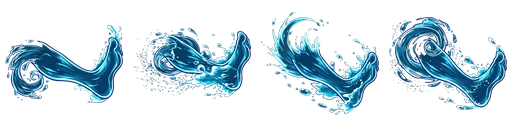
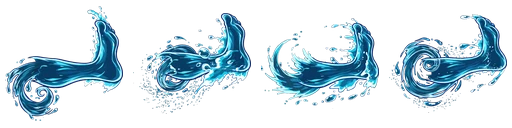
dune: otter K level, water drops round the body when attacking

diff --git a/dune.html b/dune.html
@@ -171,7 +171,7 @@ const DRAGON_COMBO = [ /* hit feel: stop = freeze on contact (s), shake, big = f
 const COMBO = OTTER ? OTTER_COMBO : DRAGON_COMBO;
 
 /* ---------- assets ---------- */
-const BUILD = 19;   /* raise when sprites.json / world.json change, so a browser never mixes a new page with an old list */
+const BUILD = 20;   /* raise when sprites.json / world.json change, so a browser never mixes a new page with an old list */
 const SP = {}, ENV = {}, IMG = {}; let WORLD = {};
 const load = src => new Promise(ok => { const i = new Image(); i.onload = () => Promise.race([i.decode ? i.decode().catch(() => { }) : Promise.resolve(), new Promise(r => setTimeout(r, 2500))]).then(() => ok(i));   /* a browser may never finish decode() in a background window: the game must still start */ i.onerror = () => { console.warn('missing', src); ok(null); }; i.src = src; });
 async function loadAll() {
@@ -300,7 +300,7 @@ function stepOtter(dt) {
   const S = P.cast, m = SP[S.anim], a = atk() * S.mul, mx = (I.right ? 1 : 0) - (I.left ? 1 : 0), D = P.dir;
   if (S.id === 'o_step') { /* owner: dash straight through the whole line in the push-kick pose, a foot of water in front (kick frames of the spin sheet) */
     if (P.ph === 0) { P.t += dt * 34; P.f = clamp(2 + P.t, 2, 5); P.vx = D * 120; if (P.t >= 3) { P.ph = 1; P.t = 0; P.u = new Set(); G.shake = 4; sfx('boom'); drip(P.x, P.y - 4, 8, 180); } return; }
-    if (P.ph === 1) { const t0 = P.t; P.t += dt; const u = clamp(P.t / .26, 0, 1); P.inv = Math.max(P.inv, .14); lunge(60 + 1810 * Math.sin(Math.PI * u)); P.f = P.t < .05 ? 5 + P.t / .05 * 2 : 7 + (P.t * 18 % 2 < 1 ? 0 : 1); if (Math.floor(t0 / .035) !== Math.floor(P.t / .035)) G.ghosts.push({ a: P.a, f: P.f, x: P.x, y: P.y, dir: D, t: 0, T: .2 });
+    if (P.ph === 1) { const t0 = P.t; P.t += dt; const u = clamp(P.t / .26, 0, 1); P.inv = Math.max(P.inv, .14); lunge(60 + 1810 * Math.sin(Math.PI * u)); P.f = P.t < .05 ? 5 + P.t / .05 * 2 : 11; if (Math.floor(t0 / .035) !== Math.floor(P.t / .035)) G.ghosts.push({ a: P.a, f: P.f, x: P.x, y: P.y, dir: D, t: 0, T: .2 });
       for (const q of G.mobs) { const e = (q.x - P.x) * D; if (q.st === 'dead' || P.u.has(q) || Math.abs(q.y - P.y) > 56 || e < -10 || e > q.T.r + 70) continue; P.u.add(q); MH.o_step.forEach((w, i) => G.after.push({ d: i * .05, f: () => { if (q.st === 'dead') return; const last = i === 2; hurtMob(q, a * w, last ? 90 : 14, D, last ? { stop: .028, shake: 4, big: 1, tip: 1 } : TIPSOFT); connect(S, 1); drip(q.x + D * (q.T.r + 8), q.y - q.T.h * .5, last ? 12 : 6, 240); } })); }
       if (u >= 1) { P.ph = 2; P.t = 12; P.vx = D * 130; drip(P.x + D * 40, P.y - 26, 10, 220); } return; }
     P.t += dt * 26; P.f = Math.min(m.n - 1, P.t); if (P.t >= 13) P.free = true; if (P.t >= m.n - 1) setAnim('idle'); return; }
@@ -319,10 +319,11 @@ function stepFists(dt) { for (let i = G.wf.length - 1; i >= 0; i--) { const q = 
 function drawFists() { for (const q of G.wf) { const m = SP[q.k || 'otter_wfist']; if (!m || !m.img || q.wait > 0) continue; const p = q.t / q.T, e = out3(p / .7), k = .62 + .38 * Math.min(1, p / .25); ctx.save(); ctx.globalAlpha = p < .1 ? p / .1 : 1 - sm((p - .74) / .26); ctx.translate(WX(q.x + q.d * q.L * e), WY(q.y)); ctx.scale(q.d * k, k); ctx.drawImage(m.img, q.i * m.w, 0, m.w, m.h, -q.z * .86, -q.z / 2, q.z, q.z); ctx.restore(); } }
 function waterSwirl(x, y, z, al) { const m = SP.fx_w_spin; if (!m || !m.img) return; const i = 3 + Math.floor(G.t * 22) % 3; ctx.save(); ctx.globalAlpha = al; ctx.translate(WX(x), WY(y)); ctx.rotate(G.t * 15 * P.dir); ctx.drawImage(m.img, (i % m.cols) * m.w, Math.floor(i / m.cols) * m.h, m.w, m.h, -z / 2, -z / 2, z, z); ctx.restore(); }
 function fistAt(C) { const i = Math.min(15, Math.floor(P.f)), u = P.f - i, A = C.fist[i], B = C.fist[Math.min(15, i + 1)]; return { x: P.x + P.dir * lerp(A[0], B[0], u), y: P.y - lerp(A[1], B[1], u) }; }
-function drip(x, y, n, sp) { for (let i = 0; i < n && G.wd.length < 70; i++) { const a = rand(0, 6.283), v = rand(sp * .35, sp); G.wd.push({ x, y, vx: Math.cos(a) * v + P.dir * sp * .25, vy: Math.sin(a) * v - 50, t: rand(.2, .42), r: rand(1, 2.5) }); } }
-function stepDrips(dt) { for (let i = G.wd.length - 1; i >= 0; i--) { const d = G.wd[i]; d.t -= dt; if (d.t <= 0) { G.wd.splice(i, 1); continue; } d.vy += 760 * dt; d.x += d.vx * dt; d.y += d.vy * dt; } }
-function drawDrips() { if (!G.wd.length) return; ctx.save(); for (const [c, g] of [['#163f8f', .8], ['#68d8ff', 0]]) { ctx.fillStyle = c; ctx.beginPath(); for (const d of G.wd) { const r = d.r * clamp(d.t / .14, .35, 1) + g, x = WX(d.x), y = WY(d.y); ctx.moveTo(x + r, y); ctx.arc(x, y, r, 0, 6.283); } ctx.fill(); } ctx.fillStyle = '#f2fdff'; ctx.beginPath(); for (const d of G.wd) if (d.r > 1.6) { const x = WX(d.x) - d.r * .3, y = WY(d.y) - d.r * .3; ctx.moveTo(x + .7, y); ctx.arc(x, y, .7, 0, 6.283); } ctx.fill(); ctx.restore(); }
-function drawFistWater() { if (P.st === 'skill' && P.cast && P.cast.id === 'o_step') { const k = SP.otter_wkick; if (P.ph !== 1 || !k || !k.img) return; const z = 66 + Math.sin(G.t * 34) * 3, i = Math.floor(G.t * 16) % 4; ctx.save(); ctx.globalAlpha = .96; ctx.translate(WX(P.x + P.dir * (16 + z * .86)), WY(P.y - 27)); ctx.scale(P.dir, 1); ctx.drawImage(k.img, i * k.w, 0, k.w, k.h, -z * .86, -z / 2, z, z); ctx.restore(); return; } if (P.st !== 'atk') return; const C = COMBO[P.combo], m = SP.fx_w_spin; if (!m || !m.img) return; const f = P.f, a = clamp((f - (C.hit - 2)) / 1.4, 0, 1) * (1 - clamp((f - (C.hit + 2.4)) / 2, 0, 1)); if (a <= 0) return; const q = fistAt(C), pop = 1 - clamp(Math.abs(f - C.hit) / 3, 0, 1), z = (C.big ? 30 : 22) * (.68 + pop * .5), i = 3 + Math.floor(G.t * 22) % 3; ctx.save(); ctx.globalAlpha = a * .92; ctx.translate(WX(q.x + P.dir * 2), WY(q.y)); ctx.rotate(G.t * 15 * P.dir); ctx.drawImage(m.img, (i % m.cols) * m.w, Math.floor(i / m.cols) * m.h, m.w, m.h, -z / 2, -z / 2, z, z); ctx.restore(); }
+function drip(x, y, n, sp) { for (let i = 0; i < n && G.wd.length < 120; i++) { const a = rand(0, 6.283), v = rand(sp * .35, sp); G.wd.push({ x, y, vx: Math.cos(a) * v + P.dir * sp * .25, vy: Math.sin(a) * v - 50, t: rand(.2, .42), r: rand(1, 2.5) }); } }
+function bodyDrops(dt) { if (P.dead || (P.st !== 'atk' && P.st !== 'skill')) return; const q = dt * 50, n = Math.floor(q) + (Math.random() < q % 1 ? 1 : 0); for (let i = 0; i < n && G.wd.length < 120; i++) { const a = rand(0, 6.283), R = rand(20, 40); G.wd.push({ x: P.x + Math.cos(a) * R, y: P.y - 32 + Math.sin(a) * R * .85, vx: Math.cos(a) * rand(45, 130) + P.vx * .12, vy: Math.sin(a) * rand(30, 100) - 70, t: rand(.24, .46), r: rand(1.1, 3) }); } }   /* owner: water drops round the body while attacking */
+function stepDrips(dt) { bodyDrops(dt); for (let i = G.wd.length - 1; i >= 0; i--) { const d = G.wd[i]; d.t -= dt; if (d.t <= 0) { G.wd.splice(i, 1); continue; } d.vy += 760 * dt; d.x += d.vx * dt; d.y += d.vy * dt; } }
+function drawDrips() { if (!G.wd.length) return; ctx.save(); for (const [c, g] of [['#163f8f', .8], ['#68d8ff', 0]]) { ctx.fillStyle = c; ctx.beginPath(); for (const d of G.wd) { const r = d.r * clamp(d.t / .14, .35, 1) + g, x = WX(d.x), y = WY(d.y), an = Math.atan2(d.vy, d.vx), rx = r * (1 + clamp(Math.hypot(d.vx, d.vy) / 300, 0, 1) * .9); ctx.moveTo(x + Math.cos(an) * rx, y + Math.sin(an) * rx); ctx.ellipse(x, y, rx, r, an, 0, 6.283); } ctx.fill(); } ctx.fillStyle = '#f2fdff'; ctx.beginPath(); for (const d of G.wd) if (d.r > 1.6) { const x = WX(d.x) - d.r * .3, y = WY(d.y) - d.r * .3; ctx.moveTo(x + .7, y); ctx.arc(x, y, .7, 0, 6.283); } ctx.fill(); ctx.restore(); }
+function drawFistWater() { if (P.st === 'skill' && P.cast && P.cast.id === 'o_step') { const k = SP.otter_wkick; if (P.ph !== 1 || !k || !k.img) return; const z = 66 + Math.sin(G.t * 34) * 3, i = Math.floor(G.t * 16) % 4; ctx.save(); ctx.globalAlpha = .96; ctx.translate(WX(P.x + P.dir * (18 + z * .86)), WY(P.y - 21)); ctx.scale(P.dir, 1); ctx.drawImage(k.img, i * k.w, 0, k.w, k.h, -z * .86, -z / 2, z, z); ctx.restore(); return; } if (P.st !== 'atk') return; const C = COMBO[P.combo], m = SP.fx_w_spin; if (!m || !m.img) return; const f = P.f, a = clamp((f - (C.hit - 2)) / 1.4, 0, 1) * (1 - clamp((f - (C.hit + 2.4)) / 2, 0, 1)); if (a <= 0) return; const q = fistAt(C), pop = 1 - clamp(Math.abs(f - C.hit) / 3, 0, 1), z = (C.big ? 30 : 22) * (.68 + pop * .5), i = 3 + Math.floor(G.t * 22) % 3; ctx.save(); ctx.globalAlpha = a * .92; ctx.translate(WX(q.x + P.dir * 2), WY(q.y)); ctx.rotate(G.t * 15 * P.dir); ctx.drawImage(m.img, (i % m.cols) * m.w, Math.floor(i / m.cols) * m.h, m.w, m.h, -z / 2, -z / 2, z, z); ctx.restore(); }
 function drawOrbs(front) { const m = SP.otter_orb; if (!m || !m.img || !P.orbs || P.dead) return; for (let i = 0; i < P.orbs; i++) { const a = G.t * 2.4 + i * 6.283 / P.orbs, q = Math.sin(a); if ((q >= 0) !== !!front) continue; const z = 12 + q * 2.6; ctx.save(); ctx.globalAlpha = q < 0 ? .84 : 1; ctx.translate(WX(P.x + Math.cos(a) * 38), WY(P.y - 32 + q * 15)); ctx.rotate(G.t * 5 + i); ctx.drawImage(m.img, -z / 2, -z / 2, z, z); ctx.restore(); } }
 function lunge(v) { let nv = P.dir * v; if (P.on && P.plat) { const nx = P.x + nv * .08; if (nx < P.plat.x + 10 || nx > P.plat.x + P.plat.w - 10) nv = 0; } P.vx = nv; }
 function ring(x, y, R, T = .32) { if (G.rings.length < 14) G.rings.push({ x, y, R, T, t: 0 }); }

diff --git a/tools/art/otter_water_fist.py b/tools/art/otter_water_fist.py
@@ -18,6 +18,9 @@ for n in range(4):
     rgb = np.clip(q / np.maximum(al[..., None], .05), 0, 1)
     if not KICK:   # owner: the fists of skill L must read clearly on the bright sand: deeper colour, firmer shape, a dark blue rim
         g = rgb.mean(2, keepdims=True); rgb = np.clip(g + (rgb - g) * 1.55, 0, 1); rgb = np.clip((rgb - .5) * 1.22 + .45, 0, 1); al = np.clip(al * 1.4, 0, 1); rim = np.clip(cv2.GaussianBlur(al, (0, 0), 7) * 2.1 - al, 0, 1) * .85; out = al + rim * (1 - al); rgb = (rgb * al[..., None] + np.array([6, 26, 92], np.float32) / 255 * (rim * (1 - al))[..., None]) / np.maximum(out[..., None], 1e-3); al = out
+    if KICK:   # owner: the kick must be level ("ทำแนวนอน"): turn each leg so its knee and heel are at the same height
+        ys, xs = np.where(al > .55); x0, x1 = np.percentile(xs, [3, 97]); cx = [c for c in range(int(x0 + (x1 - x0) * .32), int(x0 + (x1 - x0) * .72), 4) if (xs == c).sum() > 8]; cy = [float(np.median(ys[xs == c])) for c in cx]; ang = float(np.degrees(np.arctan(np.polyfit(cx, cy, 1)[0])));   # slope of the shin only, not the swirl or the toes
+        h, w = al.shape; M = cv2.getRotationMatrix2D((w / 2, h / 2), ang, 1); pm = cv2.warpAffine(np.dstack([rgb * al[..., None], al]), M, (w, h), flags=cv2.INTER_CUBIC); al = np.clip(pm[..., 3], 0, 1); rgb = np.clip(pm[..., :3] / np.maximum(al[..., None], .05), 0, 1); print(f'kick {n}: turned {ang:.1f} degrees')
     im = Image.fromarray((np.dstack([rgb, al]) * 255).astype(np.uint8), 'RGBA'); im = im.crop(Image.fromarray(((al > .3) * 255).astype(np.uint8)).getbbox()); k = 118 / max(im.size); im = im.resize((round(im.width * k), round(im.height * k)), Image.LANCZOS)
     S.alpha_composite(im, (n * CELL + CELL - 5 - im.width, (CELL - im.height) // 2))
 S.save(OUT, 'WEBP', quality=90, alpha_quality=95, method=6)

diff --git a/docs/action-game.md b/docs/action-game.md
@@ -2298,3 +2298,7 @@ Owner: "k ขอแบบทะลุ, l ขอสีมันชัดกว่
 
 ### DUNE: otter K = dash kick through the line (2026-11-22, `?hero=otter&test=1&v=22`)
 Owner: "k เอาแบบพุ่งเลย งั้นก็พุ่งเลย ทำทะลุ". The otter itself now dashes about 335 along the ground in the push-kick pose, with a foot of water (`otter_wkick`) in front and after-images behind. It does not stop on enemies: each monster it passes takes 3 hits, and it cannot be hit while dashing. The shooting-feet version was removed. Checked at 1280x720 and 740x360, both directions, no console errors. Not tried on a real phone.
+
+### DUNE: otter K level, water drops round the body (2026-11-22, `?hero=otter&test=1&v=23`)
+Owner: "ทำแนวนอน ดิงจะเฉียงทำไม", "ขอ vfx หยดน้ำรอบตัวเวลาโจมตีด้วย". K: each water leg is turned so its shin is level (`otter_water_fist.py kick`, raw picture unchanged) and the dash holds frame 11 of `skill_spin`, the flattest kick. Every basic punch and skill now throws small water drops all round the body (`bodyDrops`), drawn as stretched drops along their direction. Checked at 1280x720 and 740x360, no console errors. Not tried on a real phone.
+Open: the water whirl of O (`fx_w_spin` at .7) covers the otter almost completely.
